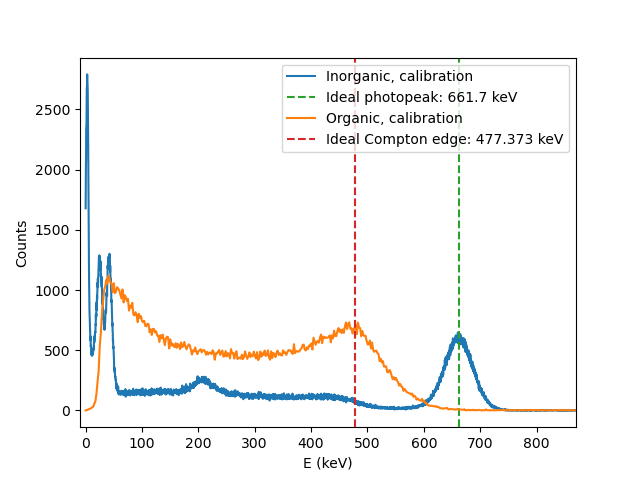
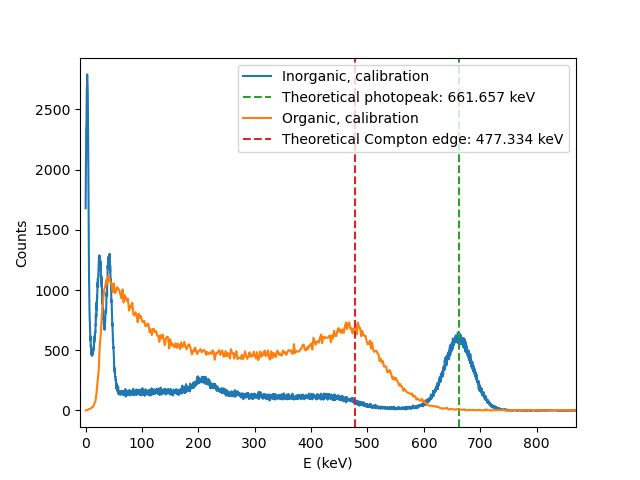
a whole lot actually

diff --git a/main.tex b/main.tex
@@ -35,6 +35,7 @@
 % Common Macros
 \newcommand{\micCi}{\xspace$\mathrm{\mu Ci}$\xspace}
 \newcommand{\CsSrc}{\xspace$\mathrm{^{137}Cs}$\xspace}
+\newcommand{\degr}{$^\circ$\xspace}
 
 \usepackage{placeins} % FloatBarrier
 \usepackage{amsmath} % align
@@ -54,23 +55,130 @@
 \end{abstract}
 
 \section{Introduction and Background}
-\subsection{Compton Scattering}
+
+Photons interact with matter through three primary mechanisms: photoelectric effect, Compton scattering, and pair production.\\
+
+In the photoelectric effect, relevant for low photon energy and high-z atoms, photons are absorbed by an electron, which may be ejected from the atom if the photon's energy was sufficiently great.
+In pair production, relevant for high photon energy (specifically, greater than 1.022 MeV, twice the rest mass energy of an electron) strikes an atom with enough energy to produce a pair of an electron and positron, which quickly annihilate.
+Finally, in Compton scattering, the photon and electron elastically scatter off of each other.
+While Compton scattering can take place at any incident photon energy, it is most significant in the intermediate energies between where photoelectric effect and pair production dominate, and especially for lower-z material, where neither dominates, as seen in \figref{intr0_effects}.\\
+
+\defplotW{intr0_effects}{Regions of photon energy $\bar{h}\omega$ and target proton count where different photon interactions with matter tend to occur. Sourced from Nuclear Radiation Interactions (Second Edition)\cite{yip_nuclear_2025}}{0.6}
+
+Compton scattering is of particular interest due to its kinetic model, as shown in \figref{intr1_kine}, in which the model of an elastic collision, accounting for relativistic behavior, can be used to predict energies based on deflection angle $\theta$.
+In high-z material where Compton scattering dominates, electron binding energy is low enough to be ignored in this model.
+
+\defplotW{intr1_kine}{Kinematics of Compton scattering, in which an incident photon of energy $E$ interacts with an electron at rest, with the photon scattering at angle $\theta$ to a lower energy $E'$ and transferring $E_e=E-E'$ to the ejected electron.}{0.6}
+
+
+In this laboratory, we perform time-coincidence measurements using two detectors to compare energies of Compton scattered electrons and photons at different angles to verify theoretical Compton scattering kinematics.
+In doing so, we also aim to demonstrate the use of direct digital acquisition electronics.
+% Photoelectric effect
+\subsection{Compton Kinematics}
 % ...
 Using conservation of energy $E_\gamma=E_\gamma'+E_e$ and conservation of momentum $\vec{p}_\gamma=\vec{p}_\gamma'+\vec{p}_e$, the energies of the scattered photon $E_\gamma'$ and electron $E_e$ may be derived in a kinematic relationship.
-The energy $E_\gamma'$ of the scattered photon
+Solving these relationships yields the energy $E_\gamma'$ of the scattered photon for a given angle $\theta$:
+\begin{equation}\label{eq:comp_Egp}
+    E_\gamma' = \frac{E_\gamma}{1 + \frac{E_\gamma}{m_ec^2}(1-\cos(\theta))}
+\end{equation}
+where $m_e$ is the rest mass of an electron and $c$ the speed of light.\\
+
+This relationship results in a continuous range of Compton electron energy, as depicted in \figref{fig:ideal_spec} ideally and in \figref{fig:blur_spec} with typical broadening effects.
+The maximum energy, corresponding to the ``Compton edge'' seen in these figures, can be found using Equation~\ref{eq:comp_Egp} evaluated at 180$^\circ$~(full backwards deflection):
+\begin{equation}\label{eq:comp_max}
+    E_{e,max}=E_\gamma-E_\gamma'(180) = E_\gamma-\frac{E_\gamma}{1 + \frac{E_\gamma}{m_ec^2}(1-\cos(180))} = E_\gamma\left(1-\frac{1}{1 + 2\frac{E_\gamma}{m_ec^2}}\right)
+\end{equation}
+and the minimum by evaluating at 0$^\circ$~(no deflection):
+\begin{equation}\label{eq:comp_min}
+    E_{e,min}=E_\gamma-E_\gamma'(0) = E_\gamma-\frac{E_\gamma}{1 + \frac{E_\gamma}{m_ec^2}(1-\cos(0))} = E_\gamma-E_\gamma=0
+\end{equation}
+
+\defplotW{ideal_spec}{A spectrum that could be observed in an ideal detector, featuring both photoelectric effect at $C_0$ corresponding exactly to photon energy, and the Compton energy continuum from channels 0 to $CC$ corresponding to minimum and maximum Compton electron energy (Compton edge). Sourced from \emph{Measurement and Detection of Radiation}\cite{tsoulfanidis_measurement_2015}.}{0.5}
+
+
+\defplotW{blur_spec}{A typical detector spectrum featuring statistical broadening of the Compton continuum and photoelectric peak. The dashed line suggests the spectrum that would be observed without Compton effects. Sourced from \emph{Measurement and Detection of Radiation}\cite{tsoulfanidis_measurement_2015}.}{0.5}
+
+\FloatBarrier
 \section{Experimental Procedure}\label{sec:methods}
+
+In this laboratory, we employ a 30 \micCi \CsSrc source, lead bricks used as collimators, a stilbene organic scintillator, a NaI(Tl) inorganic detector, and a signal processing fast digitizer.
+
+
+beta and gamma source, shielded by a 2mm thick aluminum absorber
 \section{Experimental Results}\label{sec:results}
+\FloatBarrier
 
+The calibration spectra for the inorganic and organic detectors may be viewed in \figref{fig:dual_cal}.
+The spectrum of the inorganic detector (with high-z material) features a prominent photoelectric peak (photopeak) corresponding to the energy of the gamma source (661.657 keV).
+The spectrum of the organic detector (with low-z material) does not feature such a photopeak, but we match the edge of the Compton energy range (Compton edge) to the maximum electron transfer energy using Equation~\ref{eq:comp_max} (477.334 keV).
+These calculations found calibration coefficients of 0.252 keV per channel for the inorganic detector, and 1.92 keV per channel for the organic detector.\\
 
+\defplot{dual_cal}{The calibration spectra measured for the organic and inorganic detectors, scaled using known energy values featured in the spectra.}
+
+\FloatBarrier
 % Calibration:
 % 0.251980198019802 keV/chan for inorganic
 % 1.924892774995428 keV/chan for organic
 
+Spectra were successfully measured for scattering targeting the inorganic detector at angles of 0\degr, 30\degr, 60\degr, and 90\degr. 
+These spectra can be found in \figref{fig:og_angles_dual} for the organic detector, and in \figref{fig:in_angles_dual} for the inorganic detector, both calibrated using the previously found calibration coefficients.
+In the same figures are displayed the theoretical Compton electron and photon energies for each angle, which are included numerically in Table~\ref{tab:comp_E}.
+
+\defplotW{og_angles_dual}{Spectra observed by the organic detector for scattering events at offsets of 0\degr, 30\degr, 60\degr, and 90\degr. Note the correspondence between the peak at each angle, and the predicted Compton recoil electron energy $E_e$.}{0.9}
+\defplotW{in_angles_dual}{Spectra observed by the inorganic detector for scattering events at offsets of 0\degr, 30\degr, 60\degr, and 90\degr. Note the correspondence between the peak at each angle, and the predicted Compton photon scatter energy $E_\gamma'$.}{0.9}
+
+\begin{table}[!htb]
+    \centering
+    \caption{The theoretical Compton electron and photon energies $E_e$ and $E_\gamma'$ corresponding to an incoming photon of energy $E_\gamma=661.657$ keV, with photon scattering angles $\theta$ of 0\degr, 30\degr, 60\degr, and 90\degr.}
+    \label{tab:comp_E}
+    \begin{tabular}{c|cc}
+        Photon Scattering Angle $\theta$ & $E_e$ (keV) & $E_\gamma'$ (keV) \\\hline
+        0\degr & 0 & 661.7 \\
+        30\degr & 97.8 & 563.8 \\
+        60\degr & 260.0 & 401.6 \\
+        90\degr & 373.3 & 288.3   
+    \end{tabular}
+\end{table}
+
+\FloatBarrier
 \section{Discussion}\label{sec:disc}
 
-% Organic mathces up well with theoretical compton scattering bc compton scattering dominates in the low-z media
-% Inorganic is evil and messy because it's high z so photo electric interferes? tho wouldn't explain the angular dependence
+% The events are linked: the organic detector doesn't have much photopeak so it mostly catches the energy transferred through compton scattering.
+% Then, the gamma keeps on going, but if it hits the inorganic detector, which does have photopeak, the inorganic detector can record the energy of that photon. 
+% Since the results are linked, this is exactly what we expect: The electron energies which we know correspond to gammas going in a certain angle, have the energy we expect them to.
+% The gammas in that angle also have the enrgies we expect them to
+% Can now discuss 
+
+
+The calibration coefficients for the organic and inorganic detectors appear to be self-consistent with each other, as compared in \figref{fig:dual_cal}.
+While the organic spectrum lacks a photopeak to compare, the inorganic spectrum has a very muted Compton edge which loosely appears to line up with the theoretical and organic Compton edges, despite not directly being used in the calibration, lending credence to the choice of calibration coefficients.\\
+
+In the angular spectra for the organic detector (\figref{fig:og_angles_dual}), the peaks of energy measured appear to correspond to the predicted energy $E_e$ of Compton recoil electrons from Table~\ref{tab:comp_E}, while in the angular spectra for the inorganic detector (\figref{fig:in_angles_dual}), the peaks of energy appear to correspond to the predicted energy $E_\gamma'$ of the Compton scattered photons.
+This is as expected from our experimental design: gamma photons striking the (low-z) organic detector, being Compton scattered in some angle $\theta$.
+The organic detector thus detects the Compton electrons and their energy, while the (high-z) inorganic detector, having strong photoelectric response as seen in the calibration curves, produces a response corresponding to that originally scattered photon's energy.\\
+
+While there remain several deviations in these graphs from an ideal expected response, they do not appear to be without explanation.
+In both angular spectra sets, substantial broadening of energy occurs, as is expected of any detector, even for a perfectly uniform-energy source.
+Our collimation is, additionally, imperfect, and we would expect a slight additional variation in scattering angles observed from a target angle.\\
+
+For the angular spectra of the inorganic detectors' response, the background radiation can be observed, but is fairly consistent between angles, making it fairly simple to distinguish between background noise and the peak from scattered Compton photons.\\
+The peak in the inorganic 0\degr spectrum appears to fall below the predicted Compton photon energy, while the peak in the same organic spectrum appears to overestimate the predicted Compton recoil electron energy of 0, suggesting the 0\degr measurement was not in taken while perfectly aligned with the collimator.
+Between the different angular spectra for the organic detector, we observe remaining traces of a Compton continuum matching the unfiltered calibration spectrum.
+This is not unexpected; while we set a tight timing window of 56 ns, it is inevitable that some small number of unrelated Compton electron observations from events unrelated to those reaching the angled inorganic detector were still close enough to either correctly observed photons scattering at that angle, or to unrelated observations by the inorganic detector, to show up on the organic detector's spectra.
+
+
 \section{Conclusions}\label{sec:conc}
+
+The objectives of the lab were broadly successful. Calibration spectra were successfully measured for the inorganic and organic detectors' responses to 661.657 keV gamma particles, yielding calibration coefficients of 0.252 keV per channel for the inorganic detector, and 1.92 keV per channel for the organic detector.\\
+
+Spectra were successfully measured of the inorganic and organic detectors' responses to Compton scattering of incident 661.657 keV gamma particles at angles of 0, 30, 60, and 90 degrees.
+As expected, the peaks measured by the organic detector, which the gamma particles Compton scattered off of, at different angles correspond roughly to the expected Compton electron energy for those angles.
+Likewise, the peak energies measured by the inorganic detector oriented towards these angles correspond roughly to the energies expected of Compton photons scattered in these angles.\\
+
+While the angular spectra had some imperfections, their consistency and correspondence with Compton kinematics validates this theoretical model, and future measurements with more precise control of detector angle and collimation, and further optimization of coincidence window, may yield even finer correspondence to this model.\\
+
+This qualified success in selecting for coincidental measurements from two detectors additionally demonstrates the effective use of direct digital acquisition.
+
 
 % \bibliographystyle{sty/ieeetran}
 \pagebreak\printbibliography
@@ -98,7 +206,6 @@ Where a detail could not be identified for a given device, it is replaced with `
         % GM Pulse Inverter & Spectrum Techniques\sref{addr:spect} & 2017 GPI & \na & \na \\
         Multichannel Analyzer & Ortec\sref{addr:ortec} & EasyMCA & Inventory \# & P10F79090 \\
         Alpha Spectrometer & Ortec\sref{addr:ortec} & Model 7401, Si surface barrier detector & Property \# & NE 759377\\
-        Alpha Source & Unknown & 0.1 \micCi \AmSrc & \na & \na\\
         Vacuum Pump & Unknown & \na & \na & \na \\
         Mylar Sheets & Unknown & $5\times3.6$~microns thick & \na & \na \\
         Aluminum Sheets & Unkown & $5\times18$~microns thick & \na & \na \\

diff --git a/plots.py b/plots.py
@@ -25,7 +25,7 @@ chans_og = np.array([i for i in range(len(spec_00_og))])
 # plt.legend()
 # plt.show()
 
-CS137_PHOTOPEAK = 661.7 # keV
+CS137_PHOTOPEAK = 661.657 # keV
 # Calculate the peak compton? I wonder if organic just doesn't have any photopeak
 # m_e = 0 #kg
 # c = 3e8 #m/s
@@ -58,10 +58,10 @@ E_in = chans_in * C_INORG
 E_og = chans_og * C_ORG
 
 # plt.plot(E_in, spec_00_in, label="Inorganic, calibration")
-# vbar(CS137_PHOTOPEAK, f"Ideal photopeak: {CS137_PHOTOPEAK} keV", c="C2")
+# vbar(CS137_PHOTOPEAK, f"Theoretical photopeak: {CS137_PHOTOPEAK} keV", c="C2")
 
 # plt.plot(E_og, spec_00_og, label="Organic, calibration")
-# vbar(CS137_COMPEAK, f"Ideal Compton edge: {CS137_COMPEAK:.3f} keV", c="C3")
+# vbar(CS137_COMPEAK, f"Theoretical Compton edge: {CS137_COMPEAK:.3f} keV", c="C3")
 # plt.xlabel("E (keV)")
 # plt.ylabel("Counts")
 # plt.xlim(-10, 870)
@@ -79,7 +79,8 @@ specs_og = [readlist(path) for path in paths_og]
 
 ideal_Ee = [get_compton_Ee(CS137_PHOTOPEAK, rad) for rad in angrads]
 ideal_Egp = [get_compton_Egp(CS137_PHOTOPEAK, rad) for rad in angrads]
-
+print(f"Ee: {ideal_Ee}")
+print(f"Egp: {ideal_Egp}")
 # for i in range(len(angles)):
 #     ang = angles[i]
 #     rad = angrads[i]
